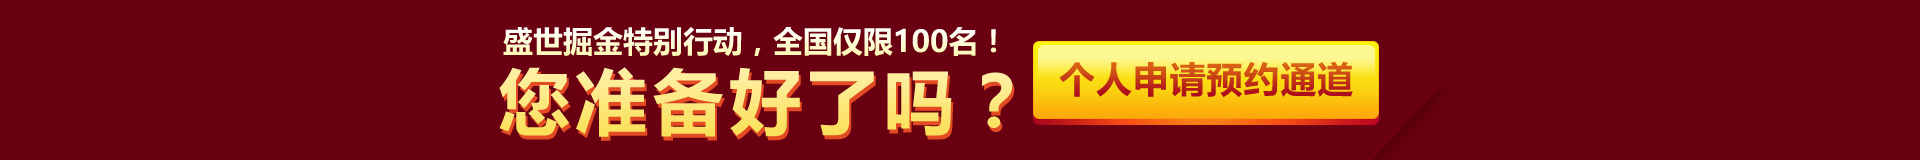
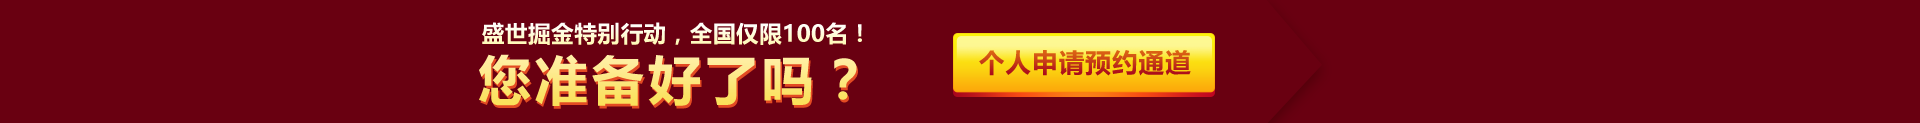
build web production

Changed region(s): [[0.25, 0.1707, 0.7188, 0.9024]]

diff --git a/src/components/ssjj-activity-web.vue b/src/components/ssjj-activity-web.vue
@@ -114,7 +114,7 @@ input {
 }
 .footer {
     width: 100%;
-    height: 160px;
+    height: 123px;
     position: fixed;
     bottom: 0;
     background: url("../assets/images/ssjj-activity/zczg-web-footer.jpg") center bottom no-repeat;
@@ -267,11 +267,11 @@ input {
     left: 310px;
 }
 .footer a {
-    width: 346px;
-    height: 78px;
+    width: 262px;
+    height: 60px;
     position: absolute;
-    top: 41px;
-    right: 81px;
+    top: 33px;
+    right: 245px;
 }
 .fixBg {
     width: 100%;
